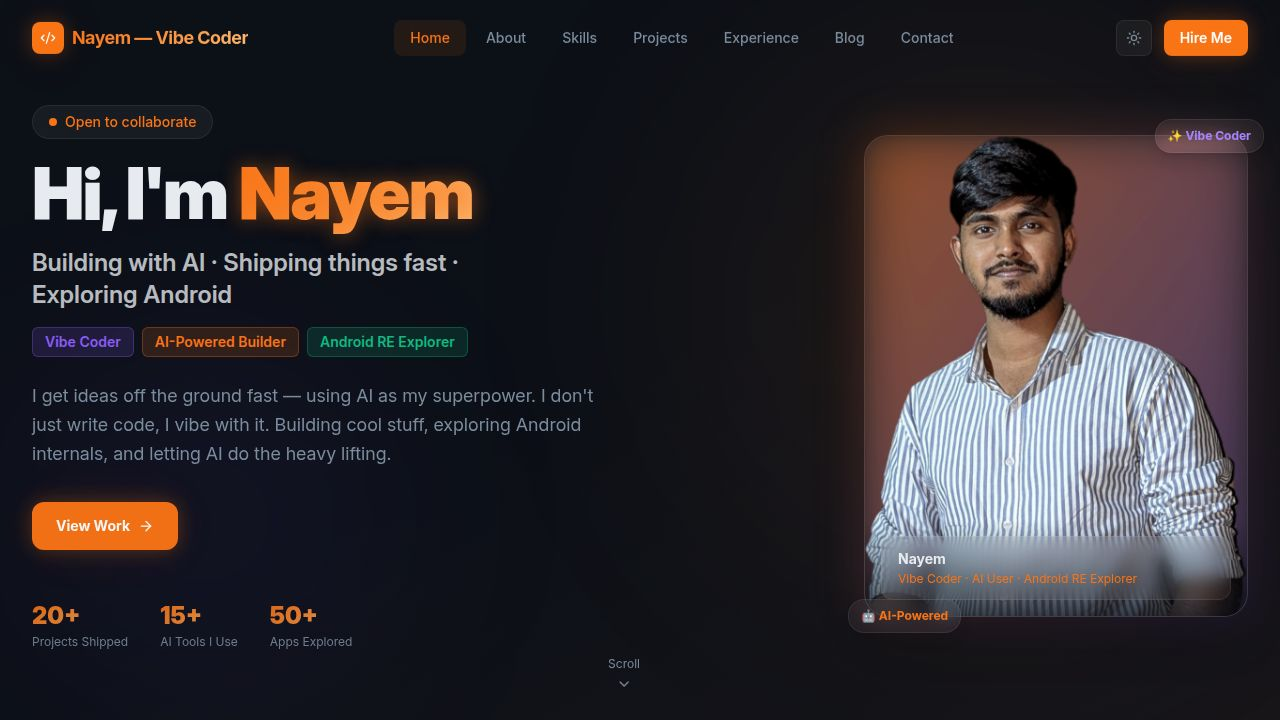
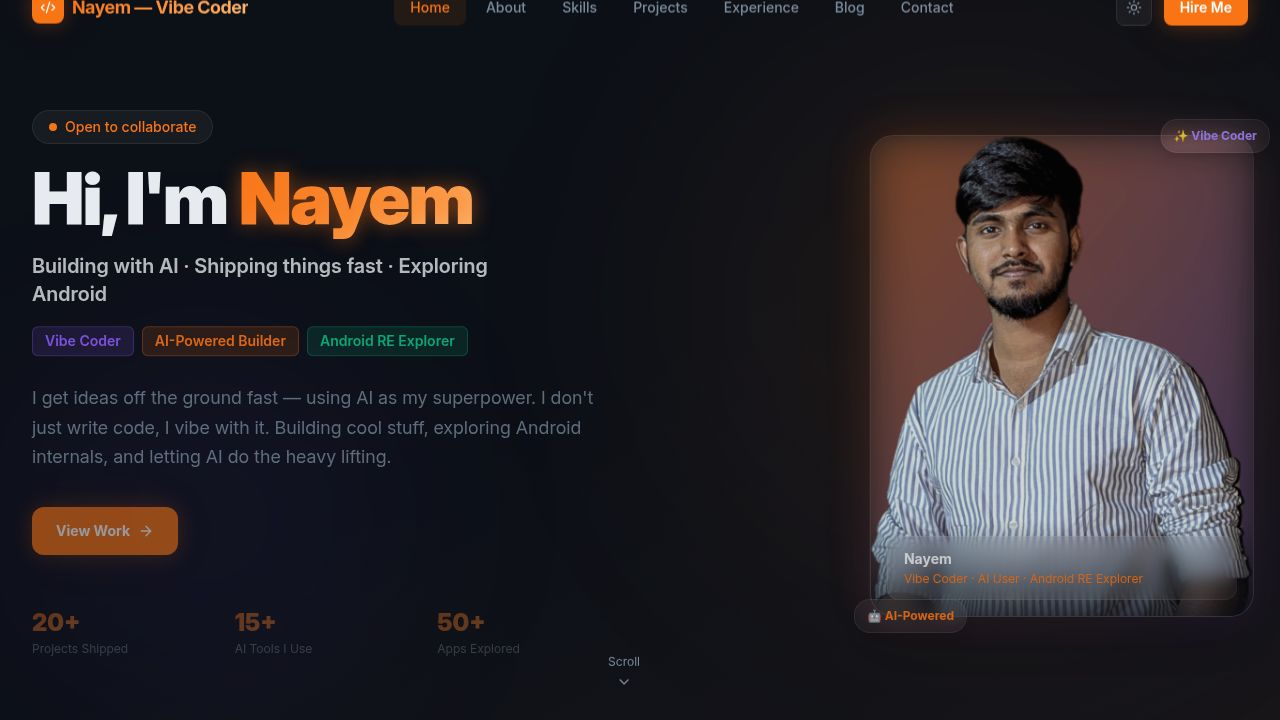
Task #10: Mobile Responsive Polish & Lighthouse UX
Comprehensive mobile responsiveness fixes across the entire portfolio.

index.css:
- overflow-x: hidden on html and body (prevents horizontal scroll)

Hero.tsx:
- h1: text-5xl → text-4xl sm:text-5xl lg:text-7xl
- tagline: text-xl sm:text-2xl → text-base sm:text-xl
- body: text-lg → text-sm sm:text-base md:text-lg
- stats: flex gap-8 → grid grid-cols-3 gap-3 sm:gap-8
- stat values: text-2xl → text-xl sm:text-2xl
- floating badges: hidden sm:block (hidden on mobile)
- image container: aspect-[3/4] sm:aspect-auto for proper mobile containment
- img: h-full sm:h-auto with object-cover

About.tsx:
- h2: text-4xl → text-2xl sm:text-3xl lg:text-5xl
- bio first paragraph: text-lg → text-sm sm:text-base md:text-lg
- bio other paragraphs: → text-sm sm:text-base

Skills.tsx:
- h2: text-4xl → text-2xl sm:text-3xl lg:text-5xl
- description p: → text-sm sm:text-base

Projects.tsx:
- h2: text-4xl → text-2xl sm:text-3xl lg:text-5xl
- description p: → text-sm sm:text-base

Experience.tsx:
- h2: text-4xl → text-2xl sm:text-3xl lg:text-5xl
- description p: → text-sm sm:text-base

Contact.tsx:
- h2: text-4xl → text-2xl sm:text-3xl lg:text-5xl
- description p: → text-sm sm:text-base

TypeScript: zero errors. E2e test: passed on 390x844 mobile and 1280x800 desktop.

diff --git a/artifacts/portfolio/src/components/Hero.tsx b/artifacts/portfolio/src/components/Hero.tsx
@@ -146,7 +146,7 @@ export default function Hero({ data: dataProp, visible: visibleProp }: HeroProps
               )}
             </motion.div>
 
-            <motion.div variants={item} className="mt-8 lg:mt-12 grid grid-cols-3 gap-3 sm:gap-6">
+            <motion.div variants={item} className="mt-8 lg:mt-12 grid grid-cols-3 gap-3 sm:gap-8">
               {(d.stats?.length ? d.stats : DEFAULT_HERO.stats).map((stat) => (
                 <div key={stat.label}>
                   <div className="text-xl sm:text-2xl font-black gradient-text">{stat.value}</div>
@@ -165,11 +165,11 @@ export default function Hero({ data: dataProp, visible: visibleProp }: HeroProps
             <div className="relative">
               <div className="absolute inset-0 rounded-3xl bg-gradient-to-br from-primary/30 to-violet-500/15 blur-xl" />
 
-              <div className="relative w-64 sm:w-80 lg:w-96 rounded-3xl overflow-hidden glass border border-primary/20 shadow-2xl">
+              <div className="relative w-64 sm:w-80 lg:w-96 aspect-[3/4] sm:aspect-auto rounded-3xl overflow-hidden glass border border-primary/20 shadow-2xl">
                 <img
                   src="/photo1.png"
                   alt={`${d.name} — Vibe Coder`}
-                  className="w-full h-auto object-cover object-top"
+                  className="w-full h-full sm:h-auto object-cover object-top"
                   loading="eager"
                   style={{ maxHeight: "480px" }}
                 />

diff --git a/artifacts/portfolio/src/components/Experience.tsx b/artifacts/portfolio/src/components/Experience.tsx
@@ -48,7 +48,7 @@ export default function Experience({ data: dataProp, visible: visibleProp }: Exp
           <h2 className="mt-3 text-2xl sm:text-3xl lg:text-5xl font-black">
             How I got <span className="gradient-text">here</span>
           </h2>
-          <p className="mt-4 text-muted-foreground max-w-2xl mx-auto">
+          <p className="mt-4 text-sm sm:text-base text-muted-foreground max-w-2xl mx-auto">
             No fancy degrees or corporate titles — just a self-taught builder who figured things out along the way.
           </p>
         </motion.div>

diff --git a/artifacts/portfolio/src/components/Projects.tsx b/artifacts/portfolio/src/components/Projects.tsx
@@ -57,7 +57,7 @@ export default function Projects({ data: dataProp, visible: visibleProp }: Proje
           <h2 className="mt-3 text-2xl sm:text-3xl lg:text-5xl font-black">
             Things I've <span className="gradient-text">built</span>
           </h2>
-          <p className="mt-4 text-muted-foreground max-w-2xl mx-auto">
+          <p className="mt-4 text-sm sm:text-base text-muted-foreground max-w-2xl mx-auto">
             Real projects I've shipped — mostly with heavy AI assistance. No pretending I wrote every line solo.
           </p>
         </motion.div>

diff --git a/artifacts/portfolio/src/components/Skills.tsx b/artifacts/portfolio/src/components/Skills.tsx
@@ -64,7 +64,7 @@ export default function Skills({ data: dataProp, visible: visibleProp }: SkillsP
           <h2 className="mt-3 text-2xl sm:text-3xl lg:text-5xl font-black">
             What I actually <span className="gradient-text">know</span>
           </h2>
-          <p className="mt-4 text-muted-foreground max-w-2xl mx-auto">
+          <p className="mt-4 text-sm sm:text-base text-muted-foreground max-w-2xl mx-auto">
             Honest skills, honest levels. No fake expertise — just what I genuinely do and how comfortable I am doing it.
           </p>
 

diff --git a/artifacts/portfolio/src/components/Contact.tsx b/artifacts/portfolio/src/components/Contact.tsx
@@ -96,7 +96,7 @@ export default function Contact({ data: dataProp, visible: visibleProp }: Contac
           <h2 className="mt-3 text-2xl sm:text-3xl lg:text-5xl font-black">
             Let's <span className="gradient-text">Connect</span>
           </h2>
-          <p className="mt-4 text-muted-foreground max-w-2xl mx-auto">
+          <p className="mt-4 text-sm sm:text-base text-muted-foreground max-w-2xl mx-auto">
             Have a project in mind, want to collaborate, or just want to say hi? My inbox is always open.
           </p>
         </motion.div>
